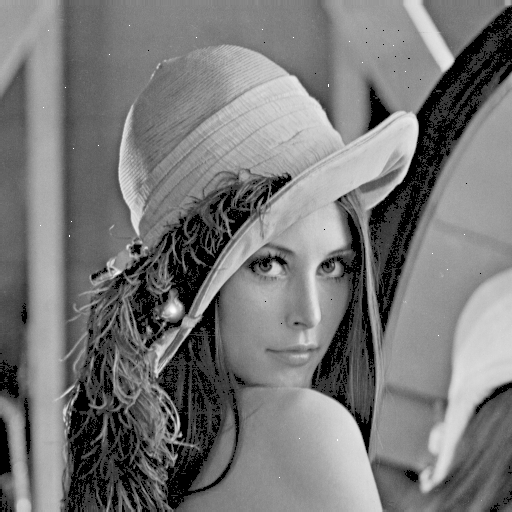
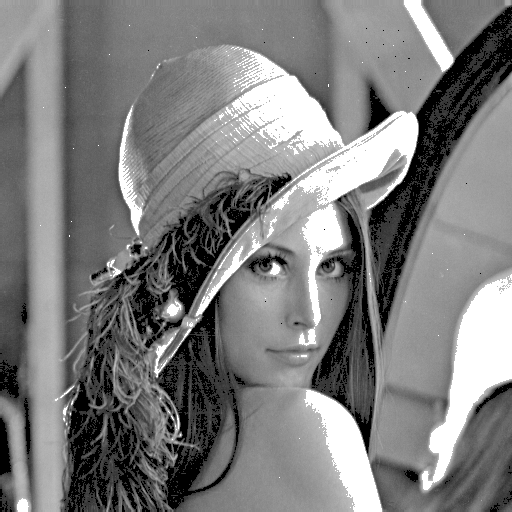
formatting display map output

diff --git a/Project02/src/project02/Histogram.java b/Project02/src/project02/Histogram.java
@@ -18,9 +18,8 @@ public class Histogram {
     private Integer cutoff;
     private Integer cutoffHigh;
 
-    private Integer first;
-    private Integer last;
-    private Integer points;
+    Integer first;
+    Integer last;
 
 
     /*--------------------------------------------------------------------------------------------*/
@@ -30,11 +29,10 @@ public class Histogram {
         cutoffHigh = 0;
         first = 0;
         last = 0;
-        points = 0;
     }
     /*--------------------------------------------------------------------------------------------*/
 
-    public void readHistogram(String filename) {
+    public Map<Integer, Integer> readHistogram(String filename) {
 
         try {
 
@@ -48,13 +46,22 @@ public class Histogram {
 
                     totalPixels++;
                     grn[i][j] = bi.getRGB(j, i) >> 8 & 0xFF;
-                    incrementSource(grn[i][j], 1);
+
+                    // incrementSource(grn[i][j], 1);
+                    int key = grn[i][j];
+                    int count = mapSource.containsKey(key) ? mapSource.get(key) : 0;
+                    count += 1;
+                    mapSource.put(key, count);
+
                 }
             }
 
         } catch (IOException e) {
             System.out.println(e + "image I/O error");
         }
+
+        return mapSource;
+
     }
     /*--------------------------------------------------------------------------------------------*/
 
@@ -75,10 +82,10 @@ public class Histogram {
     }
 
     /*----------------------------------------------------------------------------------------------
-       Cutoff Histogram 
-            set 10% to   0 close to 0 
-            set 10% to 255 close to 255
-    ----------------------------------------------------------------------------------------------*/
+     Cutoff Histogram 
+     set 10% to   0 close to 0 
+     set 10% to 255 close to 255
+     ----------------------------------------------------------------------------------------------*/
     private void cutoffHistogram() {
 
         int sum = 0;
@@ -89,15 +96,17 @@ public class Histogram {
 
             sum += value;
             if (sum < cutoff) {
-                
+
                 mapCutoff.put(key, 0);
-                first = key+1;             //---------- set first ----------//
-                
+                first = key + 1;             //---------- set first ----------//
+
             } else if (sum > cutoffHigh) {
-                
-                if(last==0) last = key-1;  //---------- set last  ----------//
+
+                if (last == 0) {
+                    last = key - 1;  //---------- set last  ----------//
+                }
                 mapCutoff.put(key, 255);
-                
+
             } else {
                 mapCutoff.put(key, value);
             }
@@ -106,17 +115,16 @@ public class Histogram {
     /*--------------------------------------------------------------------------------------------*/
 
     public void setStretch() {
-        
-        double increment = 255 / (last-first);    // 1.8613        
-        double counter=first;                     // 51
-        
+
+        double increment = 255 / (last - first);    // 1.8613        
+        double counter = first;                     // 51
+
         //mapStretch.put(0, first);
-        
-        for (int i=first; i<=last; i++) { 
-            
+        for (int i = first; i <= last; i++) {
+
             double res = (i - first) * 1.8613;
             //counter = counter + increment;
-            mapStretch.put((int)res, i);           
+            mapStretch.put((int) res, i);
         }
     }
     /*--------------------------------------------------------------------------------------------*/
@@ -128,12 +136,7 @@ public class Histogram {
         cutoffHigh = totalPixels - cutoff;
         cutoffHistogram();
         return mapCutoff;
-        
-    }
-    /*--------------------------------------------------------------------------------------------*/
 
-    public int lookup(int key) {
-        return mapCutoff.containsKey(key) ? mapCutoff.get(key) : 0;
     }
     /*--------------------------------------------------------------------------------------------*/
 
@@ -143,65 +146,13 @@ public class Histogram {
         System.out.println("Total Pixels : " + totalPixels);
         System.out.println("Cutoff       : " + cutoff);
         System.out.println("CutoffHigh   : " + cutoffHigh);
-        System.out.println("Lookup 187   : " + lookup(187));
         System.out.println("-------------------------------------");
         System.out.println("First        : " + first);
         System.out.println("Last         : " + last);
-        System.out.println("Points       : " + points);        
         System.out.println("-------------------------------------");
 
-    }    
-    /*--------------------------------------------------------------------------------------------*/
-    public int[][] ImageRead(String filename) {
-
-        try {
-
-            File infile = new File(filename);
-            BufferedImage bi = ImageIO.read(infile);
-
-            int red[][] = new int[bi.getHeight()][bi.getWidth()];
-            int grn[][] = new int[bi.getHeight()][bi.getWidth()];
-            int blu[][] = new int[bi.getHeight()][bi.getWidth()];
-
-            for (int i = 0; i < red.length; ++i) {
-                for (int j = 0; j < red[i].length; ++j) {
-                    
-                    red[i][j] = bi.getRGB(j, i) >> 16 & 0xFF;
-                    grn[i][j] = bi.getRGB(j, i) >> 8 & 0xFF;
-                    blu[i][j] = bi.getRGB(j, i) & 0xFF;
-                }
-            }
-
-            return grn;
-
-        } catch (IOException e) {
-            System.out.println("image I/O error");
-            return null;
-        }
     }   
-    /*--------------------------------------------------------------------------------------------*/
-    public void ImageWrite(int img[][], String filename) {
-
-        try {
-            BufferedImage bi = new BufferedImage(img[0].length, img.length, BufferedImage.TYPE_INT_RGB);
-
-            for (int i = 0; i < bi.getHeight(); ++i) {
-                for (int j = 0; j < bi.getWidth(); ++j) {
-                    
-                    int val = img[i][j];               
-                    if(lookup(val) == 0) val=0;                       
-                    
-                    int pixel = (val << 16) | (val << 8) | (val);
-                    bi.setRGB(j, i, pixel);
-                }
-            }
-
-            //--- Write output image
-            File outputfile = new File(filename);
-            ImageIO.write(bi, "png", outputfile);
-        } catch (IOException e) {
-            System.out.println(e);
-        }
-    }    
-    /*--------------------------------------------------------------------------------------------*/       
 }
+/*
+   value = mapCutoff.containsKey(key) ? mapCutoff.get(key) : 0;
+*/

diff --git a/Project02/src/project02/ImageReadWrite.java b/Project02/src/project02/ImageReadWrite.java
@@ -1,0 +1,91 @@
+package project02;
+
+import java.awt.image.BufferedImage;
+import java.io.File;
+import java.io.IOException;
+import java.util.Map;
+
+import javax.imageio.ImageIO;
+
+public class ImageReadWrite {
+	
+	public static int[][] ImageRead(String filename) {
+
+		try {
+
+			// -- read input image
+			File infile = new File(filename);
+			BufferedImage bi = ImageIO.read(infile);
+
+			// -- separate image into RGB components
+			int red[][] = new int[bi.getHeight()][bi.getWidth()];
+			int grn[][] = new int[bi.getHeight()][bi.getWidth()];
+			int blu[][] = new int[bi.getHeight()][bi.getWidth()];
+			for (int i = 0; i < red.length; ++i) {
+				for (int j = 0; j < red[i].length; ++j) {
+					red[i][j] = bi.getRGB(j, i) >> 16 & 0xFF;
+					grn[i][j] = bi.getRGB(j, i) >> 8 & 0xFF;
+					blu[i][j] = bi.getRGB(j, i) & 0xFF;
+				}
+			}
+
+			return grn;
+
+		} catch (IOException e) {
+			System.out.println("image I/O error");
+			return null;
+		}
+	}
+
+	public static void ImageWrite(int img[][], String filename)
+	{
+		try {
+			BufferedImage bi = new BufferedImage(img[0].length, img.length, BufferedImage.TYPE_INT_RGB);
+	    	
+	    	// -- prepare output image
+	    	for (int i = 0; i < bi.getHeight(); ++i) {
+	    	    for (int j = 0; j < bi.getWidth(); ++j) {
+	    	    	int val = img[i][j];
+	    			int pixel =	(val << 16) | (val << 8) | (val);
+	    			bi.setRGB(j, i, pixel);
+	    		}
+	    	}
+	
+	    	// -- write output image
+	    	File outputfile = new File(filename);
+	    	ImageIO.write(bi, "png", outputfile);	
+		}
+		catch (IOException e) {
+
+		}
+	}
+    /*--------------------------------------------------------------------------------------------*/
+    void ImageWriteHistogram(int[][] img, int first, int last, String filename) {
+
+        try {
+            BufferedImage bi = new BufferedImage(img[0].length, img.length, BufferedImage.TYPE_INT_RGB);
+
+            for (int i = 0; i < bi.getHeight(); ++i) {
+                for (int j = 0; j < bi.getWidth(); ++j) {
+
+                    int val = img[i][j];
+                    //Lookup in Histogram
+                    //int histVal = cutoff.containsKey(val) ? cutoff.get(val) : 0;
+                    if(val < first)  val = 0;
+                    else if(val>last) val = 255;
+
+                    int pixel = (val << 16) | (val << 8) | (val);
+                    bi.setRGB(j, i, pixel);
+                }
+            }
+
+            //--- Write output image
+            File outputfile = new File(filename);
+            ImageIO.write(bi, "png", outputfile);
+        } catch (IOException e) {
+            System.out.println(e);
+        }
+
+    }
+
+}

diff --git a/Project02/src/project02/Main.java b/Project02/src/project02/Main.java
@@ -7,38 +7,39 @@ public class Main {
     public static void main(String[] args) {
 
         System.out.println("Project 02 - Histogram");
-        MakeCutoffImage();
+        //MakeCutoffImage();
         
-        //Histogram hist2 = new Histogram();
-        //hist2.readHistogram("src/image2/LennaCutoff.png");
-        //hist2.displayHistogram();
+        Histogram hist = new Histogram();
+        Map<Integer, Integer> mapHist = hist.readHistogram("src/image2/LennaCutoff.png");
+        displayMap(mapHist);
              
     }
 
     private static void MakeCutoffImage() {
         /*---------------- Loading Data -------------------------*/
         Histogram hist = new Histogram();
-        hist.readHistogram("src/image2/Lenna.png");
+        Map<Integer, Integer> mapHist = hist.readHistogram("src/image2/Lenna.png");
+        displayMap(mapHist);
+        
         Map<Integer, Integer> cutoff = hist.setCutoff(10.0); 
-        
         displayMap(cutoff);
-        hist.displayAll();
         
-        /*-------------------------------------------------------*/
-        //hist.setStretch();
-        //hist.displayStretch();
-        /*-------------------------------------------------------*/
-        //int grn[][] = hist.ImageRead("src/image2/Lenna.png");
-        //hist.ImageWrite(grn, "src/image2/LennaCutoff.png");
+        hist.displayAll();
+       
+        ImageReadWrite image = new ImageReadWrite();
+        int grn[][] = image.ImageRead("src/image2/Lenna.png");
+        image.ImageWriteHistogram(grn, hist.first, hist.last, "src/image2/LennaCutoff.png");
+        
     }
     
     /*--------------------------------------------------------------------------------------------*/
     private static void displayMap(Map<Integer, Integer> map) {
 
+        System.out.println("\n--------------------------------\n");
         for (Map.Entry<Integer, Integer> entry : map.entrySet()) {
             Integer key = entry.getKey();
             Integer value = entry.getValue();
-            System.out.println(key + " => " + value);
+            System.out.format("%3d -> %5d\n", key, value);
         }
     }
     /*--------------------------------------------------------------------------------------------*/    
